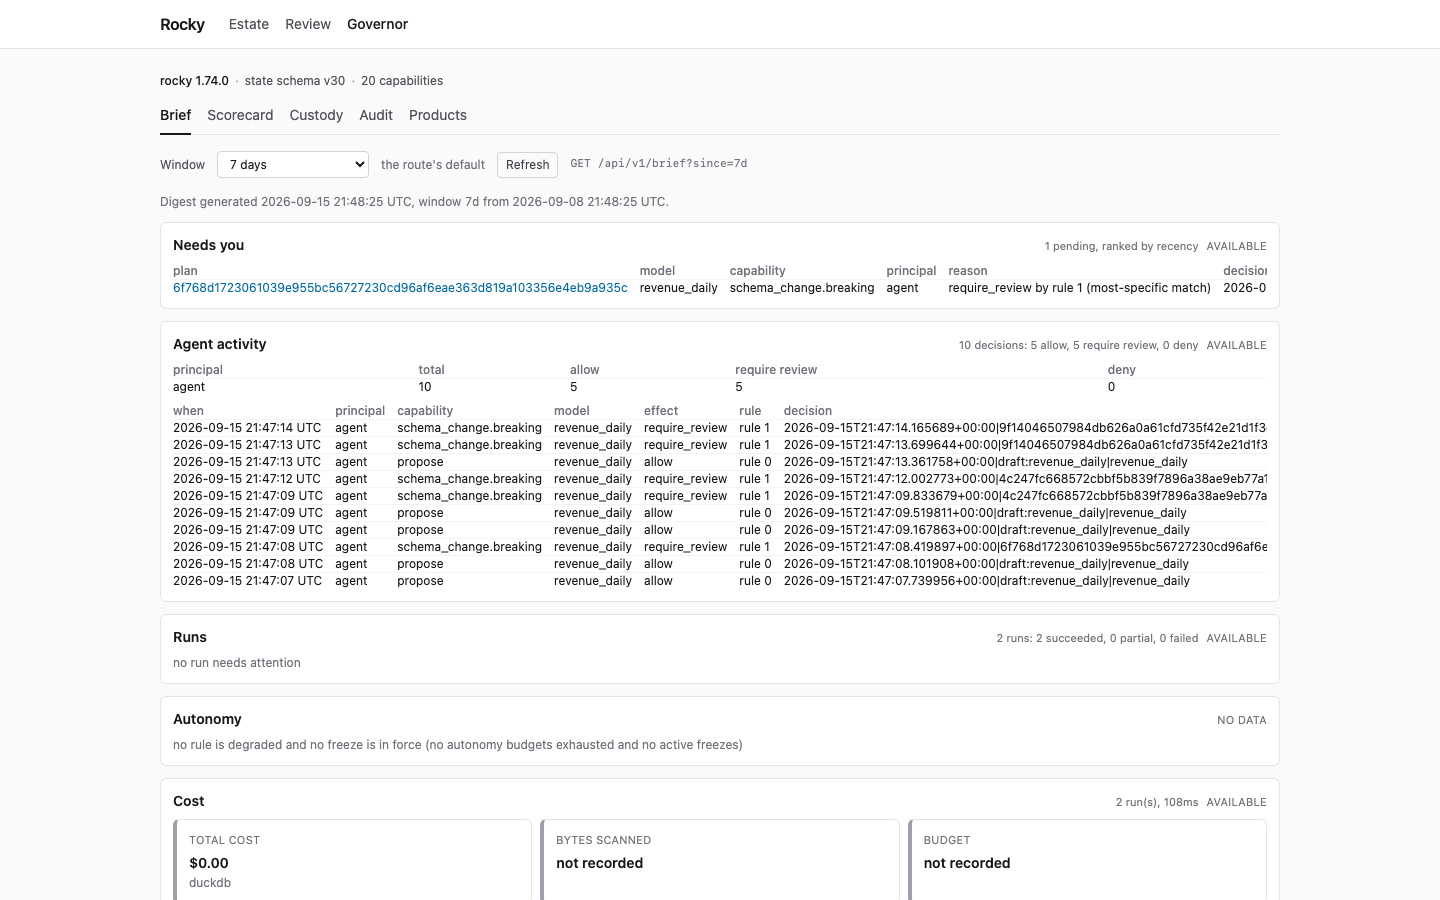
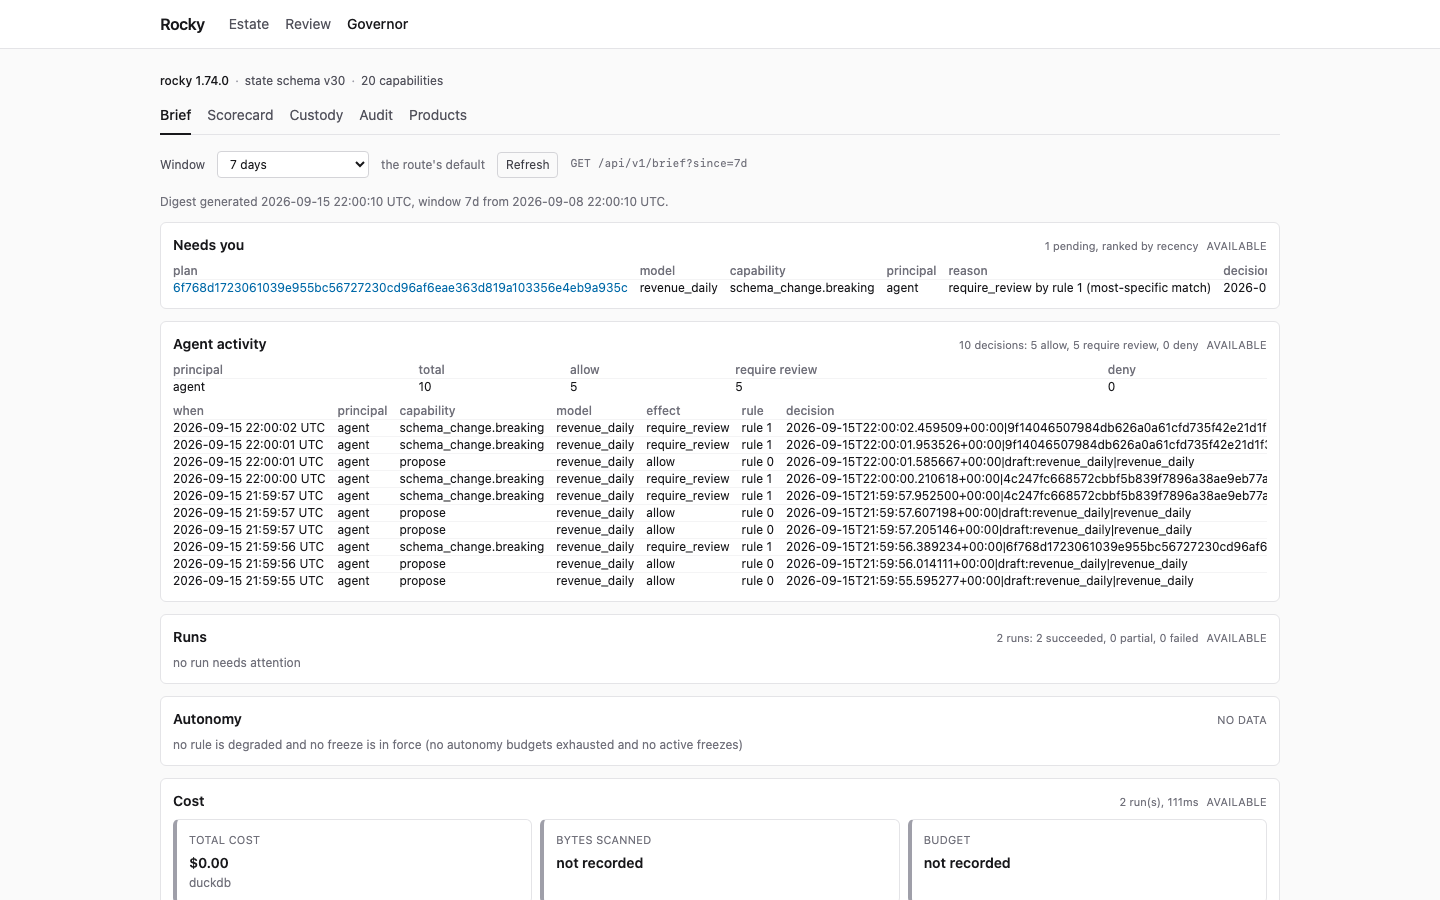
docs: the browser UI in the READMEs, a tour GIF, and a script that rebuilds the screenshots

diff --git a/README.md b/README.md
@@ -155,6 +155,21 @@ A sketch of that panel:
 
 [Install the VS Code extension →](https://marketplace.visualstudio.com/items?itemName=rocky-data.rocky)
 
+## In your browser
+
+`rocky serve --ui` opens a read-only view of the project in the browser. The UI is built into the release binary. It has three areas: the estate (models, the DAG and runs), the plans waiting for a human, and the governor's record of what agents did and why.
+
+```bash
+rocky serve --ui --token "$(openssl rand -hex 16)" --token-scope read-only
+# Rocky UI: http://127.0.0.1:8080/ui/#token=...
+```
+
+<p align="center">
+  <img src="docs/public/demo-ui-tour.gif" alt="A tour of the Rocky browser UI: the estate with its DAG, the review queue, one plan awaiting a human with the rocky review --approve command to copy, the governor brief, a model's custody chain, and a data product's journal" width="900" />
+</p>
+
+The page cannot run or approve anything. Its token is read-only, and you approve a plan in a terminal. See the [browser UI guide](https://rocky-data.dev/guides/browser-ui/).
+
 ## When an AI agent writes your pipelines
 
 Agents now write real pipeline changes. An agent that is trusted too much, with production access, can destroy real data in seconds. Rocky treats an agent as an operator with a controlled path to production.
@@ -284,7 +299,7 @@ The checker, named branches, replay, column lineage, rule enforcement and per-mo
 - **Replay says what it cannot re-run.** `rocky replay --execute --verify` runs a recorded recipe again and confirms the output is identical, byte for byte. If a model reads a source that can change, Rocky marks it non-replayable rather than re-running it against today's data.
 - **Iceberg.** Rocky reads tables from a REST catalog. Writes land as Iceberg-readable tables through Delta UniForm. Native Iceberg writes are on the roadmap.
 - **No built-in metrics layer.** Use Cube, or whichever metrics layer you already run.
-- **Dagster is the one built-in scheduler integration** ([`dagster-rocky`](integrations/dagster/)). For anything else, use the [`rocky-sdk`](sdk/python/) Python client or `rocky serve`. `rocky tick` runs cron and freshness schedules with no orchestrator, but it is experimental.
+- **Dagster is the one built-in scheduler integration** ([`dagster-rocky`](integrations/dagster/)). For anything else, use the [`rocky-sdk`](sdk/python/) Python client or `rocky serve`. `rocky tick` and `rocky serve --scheduler` run cron and freshness schedules with no orchestrator, but both are experimental.
 
 [Open a discussion](https://github.com/rocky-data/rocky/discussions) if any of these are a blocker.
 
@@ -307,6 +322,8 @@ Already have a project in another tool? `rocky import-dbt` converts a dbt Core p
 | Path | What ships | Language | What it does |
 |---|---|---|---|
 | [`engine/`](engine/) | `rocky` CLI and `rocky-lsp` | Rust | Core engine: SQL checking, drift detection, incremental loads, adapters |
+| [`engine/ui/`](engine/ui/) | built into `rocky` | TypeScript | The browser UI that `rocky serve --ui` serves |
+| [`deploy/`](deploy/) | (config only) | YAML | Docker Compose and Helm setups for a self-hosted `rocky serve`, and a local observability stack |
 | [`sdk/python/`](sdk/python/) | `rocky-sdk` (PyPI) | Python | Python client wrapping the CLI, for notebooks and scripts |
 | [`integrations/dagster/`](integrations/dagster/) | `dagster-rocky` (PyPI) | Python | Dagster resource built on `rocky-sdk` |
 | [`editors/vscode/`](editors/vscode/) | Rocky VS Code extension | TypeScript | Live checking, syntax highlighting, AI commands |
@@ -337,7 +354,8 @@ Building a connector for ClickHouse, Redshift, or another warehouse? See the [Ad
 ```bash
 git clone https://github.com/rocky-data/rocky.git
 cd rocky
-just build   # engine + sdk + dagster + vscode
+just build   # engine + sdk + dagster + vscode (the engine without the browser UI)
+just build-engine-ui   # the engine with the browser UI embedded, as releases ship it
 just test
 just lint
 ```
@@ -348,7 +366,7 @@ See [`CONTRIBUTING.md`](CONTRIBUTING.md) for per-subproject build commands.
 
 Each artifact ships independently via CI-driven tags:
 
-- `engine-v*` → Rocky CLI binary on GitHub Releases (macOS, Linux, Windows)
+- `engine-v*` → Rocky CLI binary on GitHub Releases (macOS, Linux, Windows), and the container image `ghcr.io/rocky-data/rocky` (Linux amd64 and arm64)
 - `sdk-v*` → `rocky-sdk` on PyPI
 - `dagster-v*` → `dagster-rocky` on PyPI
 - `vscode-v*` → Rocky extension on the VS Code Marketplace

diff --git a/cli-recording/README.md b/cli-recording/README.md
@@ -12,6 +12,18 @@ This records the *CLI/terminal*. Two related harnesses:
 - [`editors/vscode/recording/`](../editors/vscode/recording/) records the
   **VS Code extension**, driving a real VS Code instance.
 
+## The browser UI screenshots
+
+`./record-ui-screenshots.sh` rebuilds the `docs/public/ui-*.png` screenshots and `demo-ui-tour.gif` from scratch against the `rocky` on `PATH`. It prepares two workspaces (the playground quickstart for the estate, the fulfillment POC for review and governor), serves each with `rocky serve --ui`, and captures with `browser/screenshots.mjs`. It runs under a neutral `$USER` and git identity, because run records and approval markers put both on screen.
+
+```bash
+(cd browser && npm ci && npx playwright install chromium)   # once
+./record-ui-screenshots.sh             # -> out/ui/
+./record-ui-screenshots.sh --publish   # ...and copy into docs/public/
+```
+
+Look at every image before you commit it.
+
 ## The fulfillment screencast
 
 `./record-screencast.sh` is a different shape from the single-tape demos below:

diff --git a/docs/src/content/docs/getting-started/roadmap.md b/docs/src/content/docs/getting-started/roadmap.md
@@ -95,6 +95,10 @@ else.
   rates per principal or rule, and `rocky review --queue` ranks pending
   escalations. A signal the ledger does not hold renders as *not recorded*,
   never as a fabricated number.
+- **A browser UI.** `rocky serve --ui` serves a read-only view of the same
+  data: the estate and its DAG, the review queue with one plan in full, and the
+  governor's brief, scorecard, custody, audit and product journal. See the
+  [browser UI guide](/guides/browser-ui/).
 - **An embeddable engine.** `rocky serve` exposes `/api/v1` with outputs
   byte-identical to the CLI's `--output json`, an async job model, and a
   generated OpenAPI 3.1 document. The [Embedding guide](/guides/embedding/)

diff --git a/engine/ui/README.md b/engine/ui/README.md
@@ -1,6 +1,8 @@
 # rocky-ui
 
-The browser UI that `rocky serve --ui` embeds. A React shell over `/api/v1`; every value it shows comes from a typed engine payload, and nothing it loads comes from another host.
+The browser UI that `rocky serve --ui` embeds. A React shell over `/api/v1`; every value it shows comes from a typed engine payload, and nothing it loads comes from another host. Release binaries and the container image already include it. The [browser UI guide](https://rocky-data.dev/guides/browser-ui/) shows each screen.
+
+![The estate screen: the project strip and the DAG of the playground's three models](../../docs/public/ui-estate.png)
 
 ```bash
 npm ci

diff --git a/docs/src/content/docs/guides/browser-ui.md b/docs/src/content/docs/guides/browser-ui.md
@@ -7,6 +7,8 @@ sidebar:
 
 `rocky serve --ui` serves a browser UI for one project. It shows the project's models and runs, the plans waiting for a human, and the policy decisions and product history the engine recorded. The UI is read-only. Every value on the page comes from the same `/api/v1` payloads the CLI prints with `--output json`.
 
+![A tour of the Rocky browser UI: the estate with its DAG, the review queue, one plan awaiting a human, the governor brief, a model's custody chain, and a data product's journal](/demo-ui-tour.gif)
+
 The UI ships inside the release binaries and the container image. It has three areas:
 
 ```

diff --git a/engine/README.md b/engine/README.md
@@ -130,7 +130,9 @@ starts where this one ended, so `rocky brief` writes state. The other windows,
 **Serve and integrate**
 
 ```bash
-rocky serve          # HTTP API over the compiler's semantic graph
+rocky serve          # HTTP API under /api/v1, the same payloads as --output json
+rocky serve --ui --token T --token-scope read-only
+                     # ...plus the read-only browser UI at /ui/
 rocky lsp            # Language Server Protocol for IDEs
 rocky mcp            # Model Context Protocol server (31 agent tools, 6 write;
                      #   a 7th, approving, needs --profile approver)

diff --git a/docs/src/content/docs/reference/commands/development.md b/docs/src/content/docs/reference/commands/development.md
@@ -295,6 +295,8 @@ The rules, each refused at start with its fix:
 
 A reverse proxy in front of the UI names itself with `--allowed-host proxy.internal`; a page served from another origin lists it with `--allowed-origin https://app.example`.
 
+The [browser UI guide](/guides/browser-ui/) shows what each screen displays.
+
 ### Ask the server what it is doing
 
 `GET /api/v1/settings` reports the posture of the running server. Read it when you want to check what a server is actually enforcing, rather than what its start command looked like.
